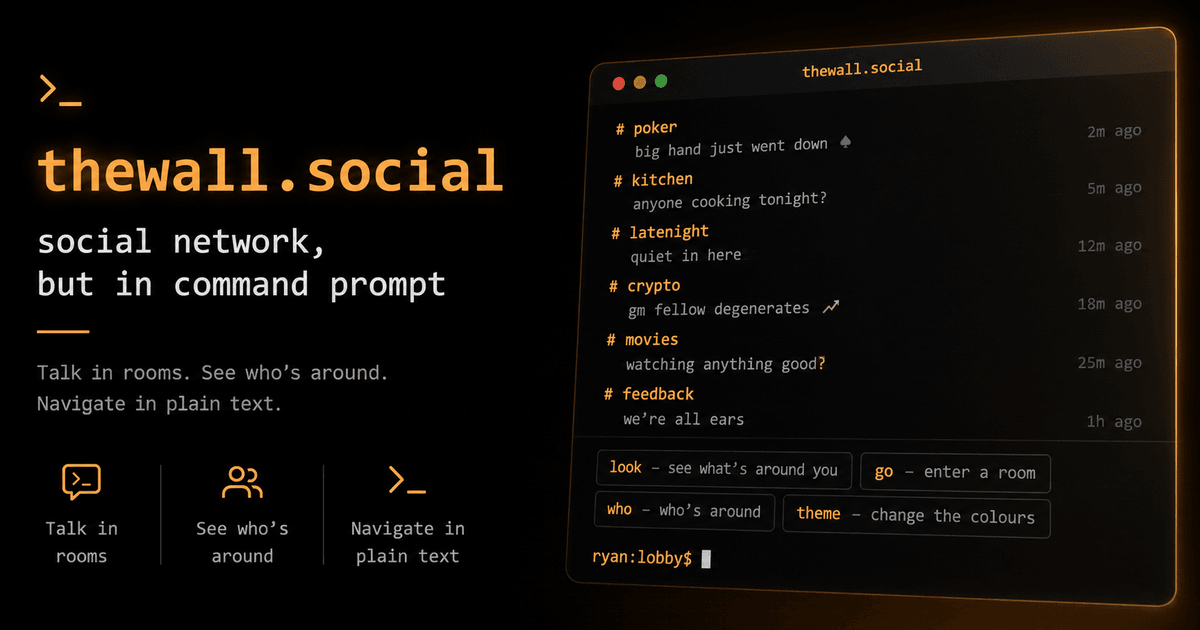
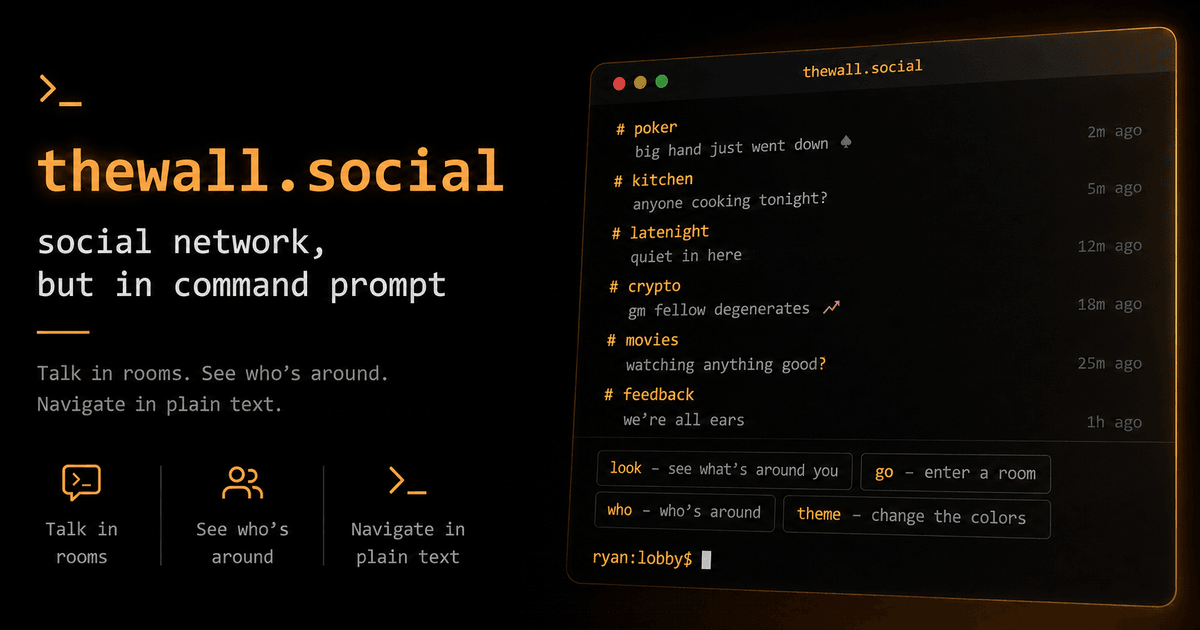
Cut all three copies of the artwork from the one you replaced
The new export landed in public/thewallopengraph.png — same filename,
straight into the served slot. That is the landing page's poster, not
the master and not the share card, so two of the three copies went on
being the previous picture.

The card is the one that matters most and the one nobody looks at:
app/opengraph-image.png is what a crawler fetches when anybody pastes a
link, and it still said "change the colours" — the British spelling this
export was fixing. Nothing failed. The page looked right, because the
page shows the copy that was updated.

So the upload becomes the master, and both derived copies are re-cut
from it: 1200x630 for the card, 1600x840 for the poster. The upload was
also the full 1.3 MB artboard sitting in a served directory, which is
six times the weight the page needs.

scripts/cut-artwork.mjs is now the whole procedure — re-export to the
master, run it — and lib/brand/artwork.test.ts runs the same pipeline
and compares the bytes. sharp is deterministic for a given version, so
this is an equality rather than a threshold: a copy that is not the
current artwork fails with the command that fixes it in the message. A
perceptual comparison was measured first and rejected — the old and new
artwork differ by one word, which scored 1.36 against 0.45 for a genuine
match, and a threshold that tight is a coin flip.

Sabotage-checked by restoring the stale card, which fails by name.

750 unit tests, 198 e2e, the database suite, clean build and typecheck.

diff --git a/lib/brand/artwork.test.ts b/lib/brand/artwork.test.ts
@@ -1,0 +1,61 @@
+import { readFileSync } from 'node:fs'
+import { join } from 'node:path'
+import { describe, expect, it } from 'vitest'
+import { CUTS, MASTER, cut } from '@/scripts/cut-artwork.mjs'
+
+/**
+ * Three copies of one picture, and a way to know they still are.
+ *
+ * `assets/thewallopengraph.png` is the master — full size, served to nobody,
+ * kept so the other two can be made again. `app/opengraph-image.png` is the
+ * 1200×630 crop Next attaches as the share card. `public/thewallopengraph.png`
+ * is the 1600×840 poster at the foot of the landing page.
+ *
+ * A new export arrived as `public/thewallopengraph.png` alone — same filename,
+ * straight into the served slot — and the other two went on being the previous
+ * artwork. The card is the one that matters most and the one nobody looks at,
+ * so every link anybody pasted would have previewed a picture that had been
+ * replaced. Nothing failed. The page looked right, because the page shows the
+ * copy that was updated.
+ *
+ * `sharp` is deterministic for a given version and set of options, so this does
+ * not measure whether the three *look* alike — it re-cuts them and compares the
+ * bytes. Same picture or a failing test, with no threshold to argue about.
+ *
+ * **If this fails after a `sharp` upgrade**, that is the encoder changing
+ * rather than the artwork, and the fix is the same either way: run the script
+ * and commit what it writes.
+ */
+
+describe('the artwork exists three times, and is one picture', () => {
+  it('has a master to cut from', () => {
+    const master = readFileSync(join(process.cwd(), MASTER))
+    expect(master.length).toBeGreaterThan(200_000)
+    // Wider than anything cut from it, or the crops are upscales.
+    expect(master.readUInt32BE(16)).toBeGreaterThan(1600)
+  })
+
+  for (const { path, width, height, why } of CUTS) {
+    it(`cuts ${path} from it — ${why}`, async () => {
+      const committed = readFileSync(join(process.cwd(), path))
+      expect(committed.readUInt32BE(16), `${path} width`).toBe(width)
+      expect(committed.readUInt32BE(20), `${path} height`).toBe(height)
+
+      const fresh = await cut(width, height).toBuffer()
+      expect(
+        fresh.equals(committed),
+        `${path} is not the current artwork — run: node scripts/cut-artwork.mjs`,
+      ).toBe(true)
+    }, 30_000)
+  }
+
+  it('keeps the card small enough for a chat app to wait for it', () => {
+    /*
+     * 1.91:1 is what every scraper crops to, and the ones that give up on a
+     * large image are the chat apps — where a pasted link either previews in a
+     * second or never does. The master is over a megabyte; the card must not be.
+     */
+    const card = readFileSync(join(process.cwd(), 'app/opengraph-image.png'))
+    expect(card.length).toBeLessThan(400_000)
+  })
+})

diff --git a/README.md b/README.md
@@ -732,9 +732,19 @@ the vendored typeface, served to nobody and kept so the other two can be made
 again. `app/opengraph-image.png` is the 1200×630 crop Next attaches as the share
 card, at about 130 KB because that is the size a chat app will wait for.
 `public/thewallopengraph.png` is 1600×840 and is the poster at the foot of the
-landing page. Re-export the master and the other two are `sharp(...).resize(...)`
-away; edit one of the derived files alone and the three quietly stop being the
-same picture.
+landing page.
+
+**Re-export to the master, then run `node scripts/cut-artwork.mjs`.** That is
+the whole procedure, and it exists because the alternative already happened: a
+new export landed in `public/` alone — same filename, straight into the served
+slot — and the other two went on being the previous artwork. The card is the
+one that matters most and the one nobody looks at, so every link anybody pasted
+would have previewed a picture that had been replaced. Nothing failed; the page
+looked right, because the page shows the copy that was updated.
+
+`lib/brand/artwork.test.ts` re-cuts both derived files and compares the bytes,
+so they cannot drift from the master again without a red test naming the
+command that fixes it.
 
 All three are **drawn, not captured**, and that is the whole reason the poster
 sits where it does. The rooms and commands in it are real and the layout is an

diff --git a/CHANGING-IT.md b/CHANGING-IT.md
@@ -1075,6 +1075,16 @@ in and a second copy of that is a second place to forget it. `e2e/landing.spec.t
 runs the same command in both and compares the HTML, so a new renderer fails
 rather than merely looking slightly wrong.
 
+**The artwork has three copies, and only one of them is edited.** The master
+lives in `assets/`, and `node scripts/cut-artwork.mjs` writes the other two —
+the 1200×630 share card and the 1600×840 landing poster. A new export went
+straight into `public/` once, which is the served slot rather than the master,
+and left the share card showing the previous picture to everybody who pasted a
+link. `lib/brand/artwork.test.ts` re-cuts both and compares the bytes; `sharp`
+is deterministic for a given version, so this is an equality rather than a
+threshold. If it fails after a `sharp` upgrade the encoder changed, not the
+artwork, and the fix is the same: run the script, commit what it writes.
+
 **A drawn picture may not stand in for a generated one.** The landing page put
 the poster under a heading saying "links look like the thing they point at",
 which is a claim about the cards `lib/brand/og.tsx` makes out of `renderRoom` —
